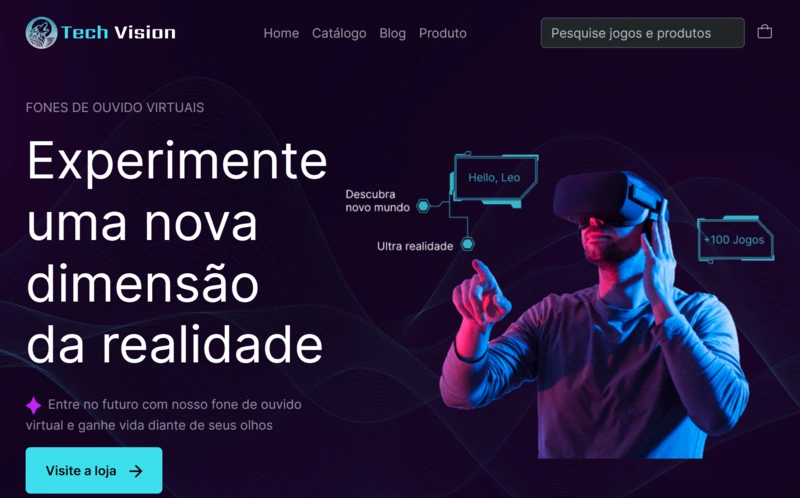
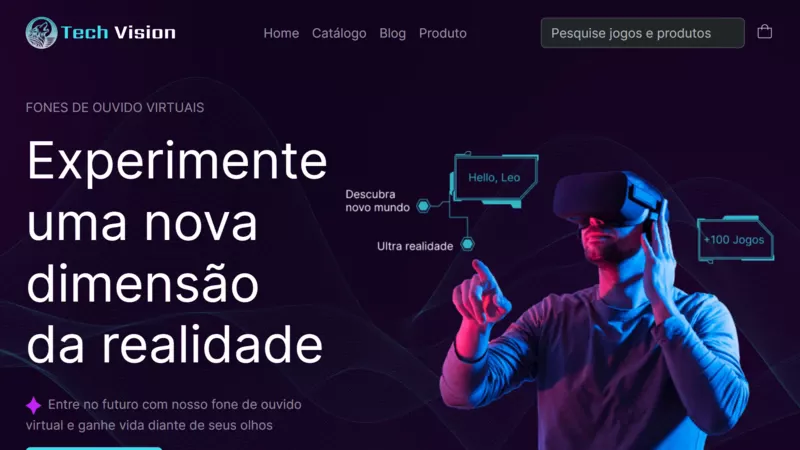
Realizado ajuste finais nas imagens do portfolio

diff --git a/portfolio.html b/portfolio.html
@@ -103,7 +103,7 @@
                 <div class="card bg-smoky border-violet border-3 h-100" data-aos="flip-right"
                     data-aos-easing="ease-out-cubic" data-aos-duration="2000">
                     <div class="ratio ratio-16x9">
-                        <img src="img/portfolio/vision.png" class="img-fluid card-img-top" alt="...">
+                        <img src="img/portfolio/vision.webp" class="img-fluid card-img-top" alt="...">
                     </div>
                     <div class="card-body pb-0">
                         <h3 class="h3 fw-bold degrade-primary">Tech Vision</h3>
@@ -143,7 +143,7 @@
                 <div class="card bg-smoky border-violet border-3 h-100" data-aos="flip-right"
                     data-aos-easing="ease-out-cubic" data-aos-duration="2000">
                     <div class="ratio ratio-16x9">
-                        <img src="img/portfolio/galeria-ai.png" class="img-fluid card-img-top" alt="...">
+                        <img src="img/portfolio/galeria-ai.webp" class="img-fluid card-img-top" alt="...">
                     </div>
                     <div class="card-body pb-0">z
                         <h3 class="h3 fw-bold degrade-primary">Imagens criada com Inteligência Artificial</h3>
@@ -175,7 +175,7 @@
                 <div class="card bg-smoky border-violet border-3 h-100" data-aos="flip-right"
                     data-aos-easing="ease-out-cubic" data-aos-duration="2000">
                     <div class="ratio ratio-16x9">
-                        <img src="img/portfolio/gpt.png" class="img-fluid card-img-top" alt="...">
+                        <img src="img/portfolio/gpt.webp" class="img-fluid card-img-top" alt="...">
                     </div>
                     <div class="card-body pb-0">
                         <h3 class="h3 fw-bold degrade-primary">GPT-3 homepage</h3>
@@ -444,7 +444,7 @@
                 <div class="card bg-smoky border-violet border-3 h-100" data-aos="flip-right"
                     data-aos-easing="ease-out-cubic" data-aos-duration="2000">
                     <div class="ratio ratio-16x9">
-                        <img src="img/portfolio/flexblog.png" class="img-fluid card-img-top" alt="...">
+                        <img src="img/portfolio/flexblog.webp" class="img-fluid card-img-top" alt="...">
                     </div>
                     <div class="card-body pb-0">
                         <h3 class="h3 fw-bold degrade-primary">Site Flexblog</h3>
@@ -471,11 +471,11 @@
                 </div>
             </div>
 
-            <div class="col-md-6 m-auto mb-4">
+            <div class="col-md-5 m-auto mb-4">
                 <div class="card bg-smoky border-violet border-3 h-100" data-aos="flip-right"
                     data-aos-easing="ease-out-cubic" data-aos-duration="2000">
                     <div class="ratio ratio-16x9">
-                        <img src="img/portfolio/z.png" class="img-fluid card-img-top" alt="...">
+                        <img src="img/portfolio/netflix.webp" class="img-fluid card-img-top" alt="...">
                     </div>
                     <div class="card-body pb-0">
                         <h3 class="h3 fw-bold degrade-primary">Clone-Netflix</h3>
